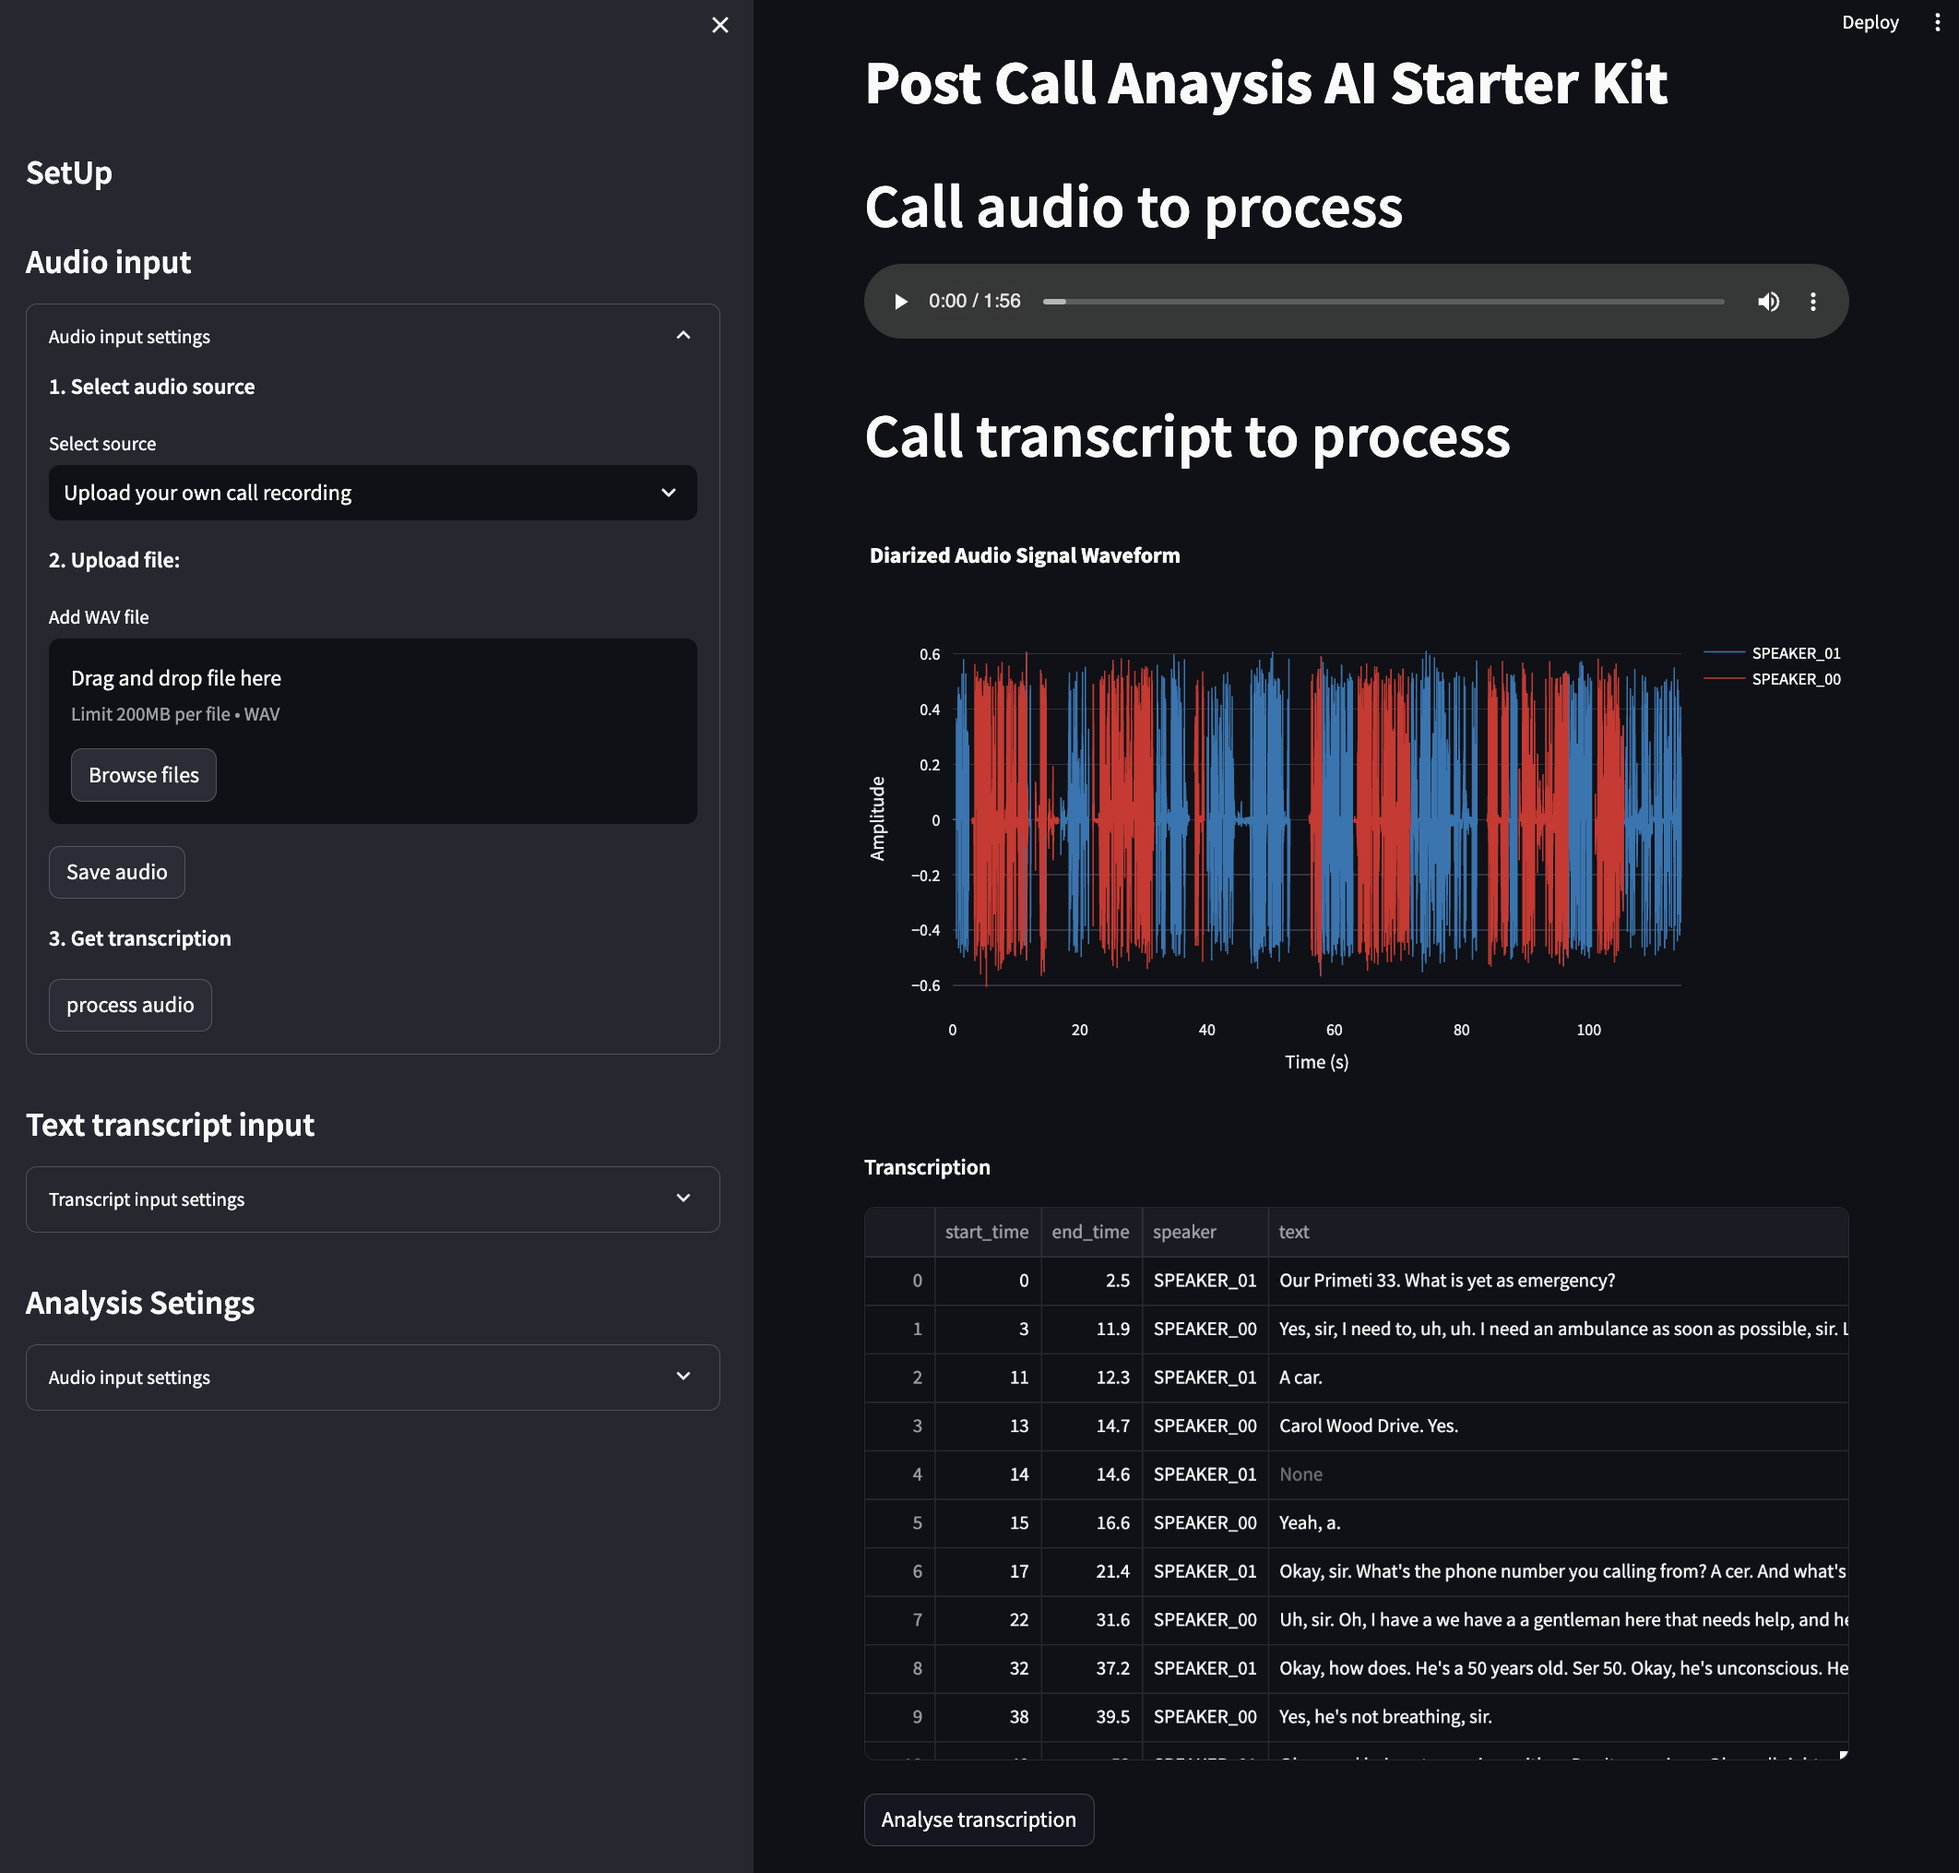
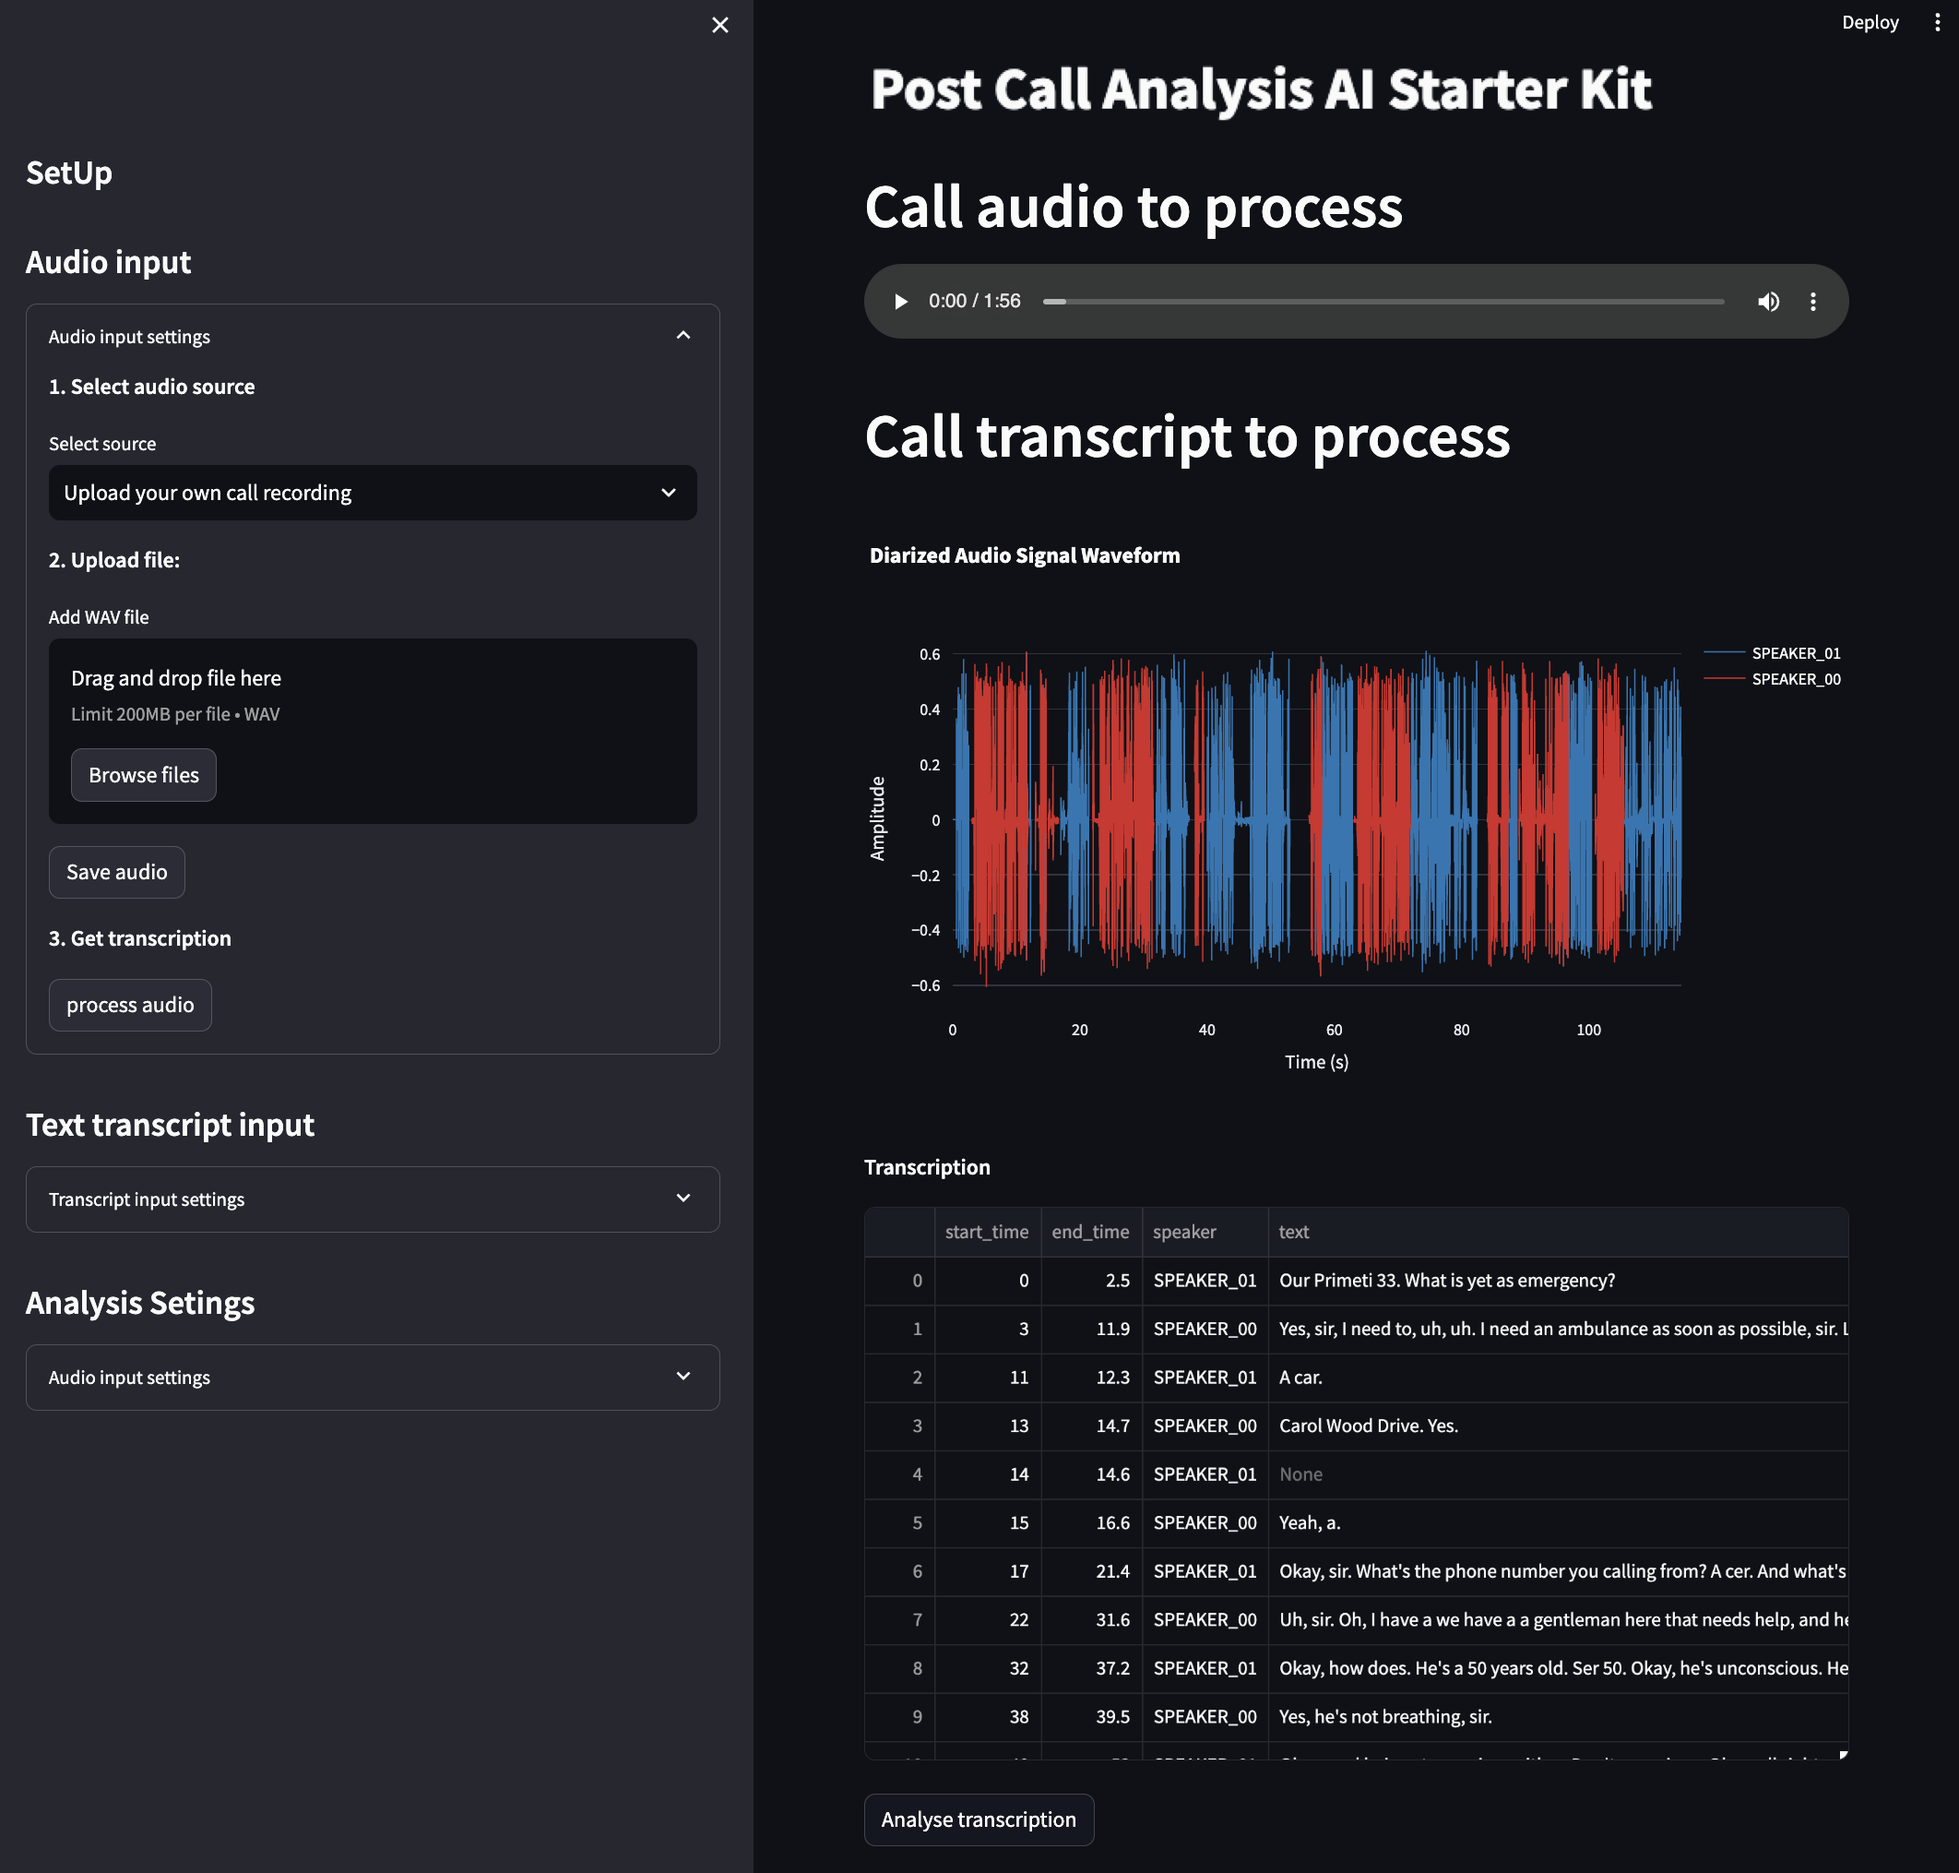
fix typo

Changed region(s): [[0.435, 0.031, 0.8701, 0.0621]]

diff --git a/post_call_analysis/streamlit/app.py b/post_call_analysis/streamlit/app.py
@@ -46,7 +46,7 @@ def handle_userinput():
     else:
         dark_mode = False
     #display block
-    st.title("Post Call Anaysis AI Starter Kit")
+    st.title("Post Call Analysis AI Starter Kit")
     if st.session_state.transcription is None:
         st.info("Start selecting and processing the input in the side bar ")
     if st.session_state.audio_path:
